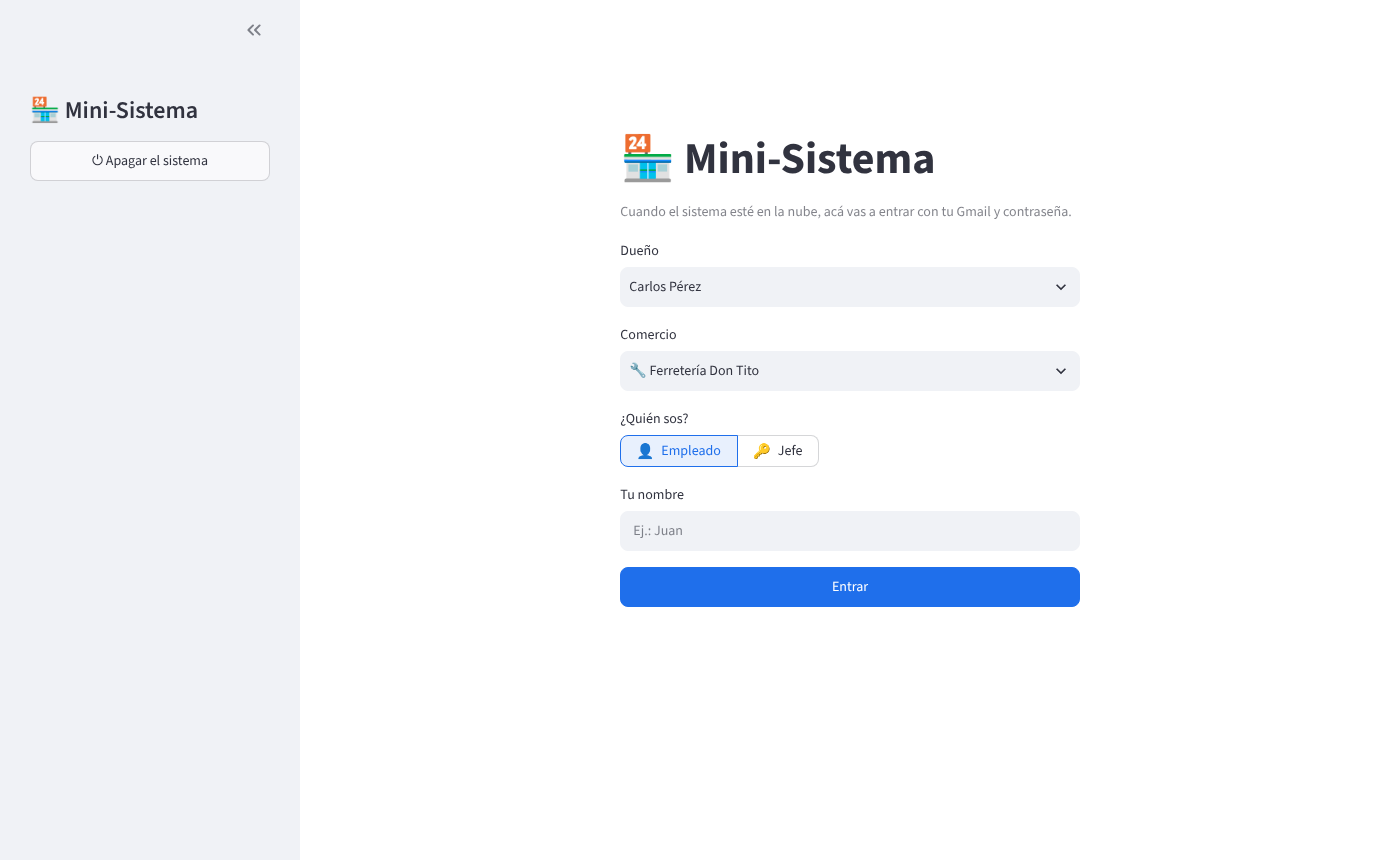
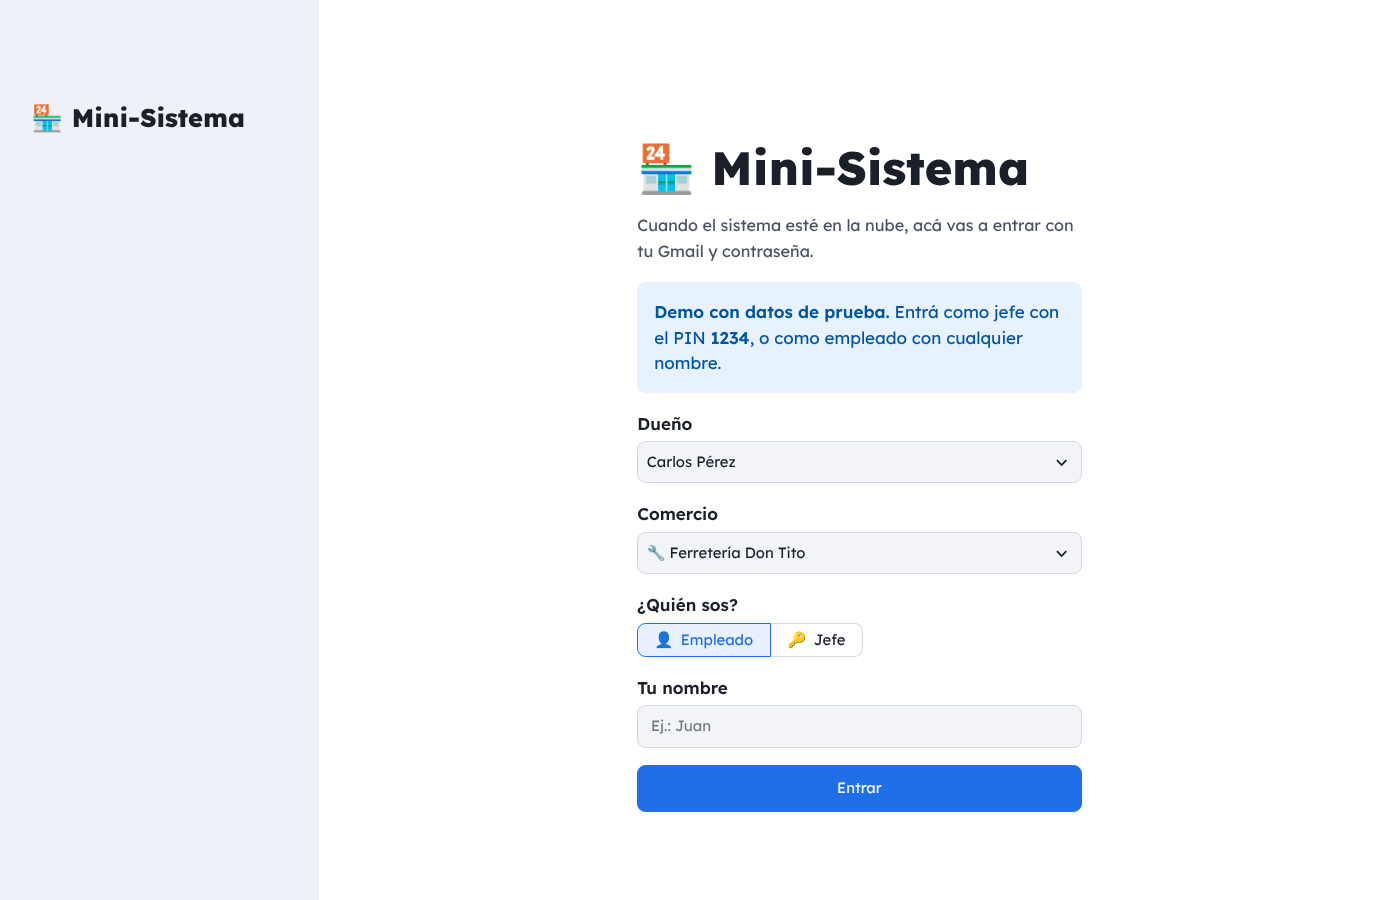
Letra más grande y oscura, Caja más cómoda y detalles visuales
- Tema propio: tipografía Lexend, letra de 17 px, texto casi negro y bordes en los casilleros.
- Etiquetas, textos de ayuda y menú de arriba más grandes y oscuros.
- Se ocultan el cartel "Running" y otros detalles de Streamlit.
- Caja: total y botón Cobrar bien grandes; en el celular cada producto ocupa dos renglones.
- Inicio: si hoy todavía no hay ventas, muestra lo vendido el último día con ventas.
- Plurales correctos ("1 producto", "1 venta", "1 día").
- Capturas del README actualizadas.

Claude-Session: https://claude.ai/code/session_013MiRa8bg68iYCC9FLNK3SH

diff --git a/comun.py b/comun.py
@@ -38,9 +38,66 @@ MESES_TEMPORADA = (12, 1, 2)  # diciembre, enero y febrero
 MES_FIN_TEMPORADA = 3         # en marzo sugiere apagarlo
 
 
+# Retoques visuales de todo el sistema (lo que no se puede cambiar desde .streamlit/config.toml).
+# Pensado para que se lea bien a cualquier edad: letra oscura, etiquetas más grandes y botones cómodos.
+ESTILOS = """<style>
+/* Detalles de Streamlit que no le sirven al comercio: el cartel "Running", la barrita de colores de arriba,
+   el menú de desarrollador y los avisos en inglés dentro de los casilleros ("Press Enter to submit form") */
+[data-testid="stStatusWidget"], [data-testid="stDecoration"], [data-testid="stMainMenu"],
+[data-testid="stAppDeployButton"], [data-testid="InputInstructions"], footer { display: none !important; }
+
+/* Menú de arriba: letra más grande */
+[data-testid="stTopNavLink"] p, [data-testid="stTopNavSection"] p { font-size: 1.05rem; font-weight: 600; }
+
+/* Nombres de los casilleros ("Día", "Producto", "Cantidad"...): más grandes y oscuros */
+[data-testid="stWidgetLabel"] p { font-size: 1rem !important; font-weight: 600; color: #1B1F2A; }
+
+/* Textos chicos de ayuda: un poco más grandes y menos grises */
+[data-testid="stCaptionContainer"] { opacity: 1 !important; }
+[data-testid="stCaptionContainer"], [data-testid="stCaptionContainer"] p { font-size: 0.95rem; color: #4A5162 !important; }
+
+/* Números grandes (vendido hoy, total...): el título arriba, legible */
+[data-testid="stMetricLabel"] p { font-size: 1rem; font-weight: 600; color: #3D4352; }
+[data-testid="stMetricValue"] { font-weight: 700; }
+
+/* Botones más cómodos de tocar */
+.stButton button, .stFormSubmitButton button, .stDownloadButton button, .stLinkButton a {
+    min-height: 2.75rem; font-weight: 600;
+}
+
+/* Caja: el total y el botón Cobrar bien grandes, que es lo que se mira y se toca con apuro */
+.st-key-total_a_cobrar [data-testid="stMetricValue"] { font-size: 3.4rem; font-weight: 800; color: #1B1F2A; }
+.st-key-boton_cobrar button { min-height: 3.6rem; }
+.st-key-boton_cobrar button p { font-size: 1.4rem; font-weight: 800; }
+
+/* En el celular: menos espacio en blanco arriba, y cada producto de la venta en dos renglones
+   (el nombre arriba; cantidad, precio y la X abajo) en vez de cuatro */
+@media (max-width: 640px) {
+    [data-testid="stMainBlockContainer"] { padding-top: 3.5rem; }
+    h1 { font-size: 2.1rem !important; }
+    [class*="st-key-fila_venta"] [data-testid="stHorizontalBlock"] { flex-wrap: wrap; gap: 0.25rem 0.75rem; }
+    [class*="st-key-fila_venta"] [data-testid="stColumn"] { min-width: 0 !important; width: auto !important; flex: 1 1 0; }
+    [class*="st-key-fila_venta"] [data-testid="stColumn"]:first-child { flex: 1 1 100%; }
+    [class*="st-key-fila_venta"] [data-testid="stColumn"]:last-child { flex: 0 0 auto; }
+    [class*="st-key-fila_venta"] p { white-space: nowrap; }
+}
+</style>"""
+
+
+def aplicar_estilos():
+    """Pone los retoques visuales (ESTILOS) en la página. Se llama una vez desde app.py."""
+    st.html(ESTILOS)
+
+
+def plural(cantidad, singular, plural_):
+    """plural(1, "venta", "ventas") -> '1 venta'; plural(3, "venta", "ventas") -> '3 ventas'"""
+    return f"{cantidad} {singular if cantidad == 1 else plural_}"
+
+
 def pesos(valor):
     """1234567.8 -> '$ 1.234.568'"""
-    return f"$ {valor:,.0f}".replace(",", ".")
+    # Con espacio "que no se corta" (\u00a0): así el $ nunca queda solo al final de un renglón
+    return f"$\u00a0{valor:,.0f}".replace(",", ".")
 
 
 def a_python(fila):

diff --git a/paginas/caja.py b/paginas/caja.py
@@ -11,7 +11,7 @@ import streamlit as st
 
 import operaciones as op
 from comun import (MEDIOS_DE_PAGO, alta_rapida, buscar_por_codigo, comercio_actual, dejar_listo_el_lector,
-                   encabezado, es_jefe, pesos)
+                   encabezado, es_jefe, pesos, plural)
 
 
 def pesos_md(valor):
@@ -20,7 +20,7 @@ def pesos_md(valor):
 
 
 def ventas_texto(cantidad):
-    return f"{cantidad} venta" if cantidad == 1 else f"{cantidad} ventas"
+    return plural(cantidad, "venta", "ventas")
 
 from ticket import generar_ticket_pdf
 
@@ -253,11 +253,12 @@ with izquierda:
     if not carrito:
         st.info("Agregá productos para empezar la venta.")
     for indice, item in enumerate(carrito):
-        f1, f2, f3, f4 = st.columns([5, 2, 2, 1], vertical_alignment="center")
+        # La "key" deja que en el celular la fila no se parta en cuatro renglones (ver ESTILOS en comun.py)
+        f1, f2, f3, f4 = st.container(key=f"fila_venta_{indice}").columns([4, 3, 2, 1], vertical_alignment="center")
         f1.write(item["nombre"])
         f2.write(f"{item['cantidad']} x {pesos(item['precio_unitario'])}")
         f3.write(f"**{pesos(item['cantidad'] * item['precio_unitario'])}**")
-        if f4.button("✕", key=f"quitar_{indice}", help="Quitar de la venta"):
+        if f4.button("", icon=":material/close:", key=f"quitar_{indice}", help="Quitar de la venta"):
             carrito.pop(indice)
             st.rerun()
 
@@ -265,7 +266,7 @@ with izquierda:
 with derecha:
     total = sum(i["cantidad"] * i["precio_unitario"] for i in carrito)
     with st.container(border=True):
-        st.metric("Total a cobrar", pesos(total))
+        st.container(key="total_a_cobrar").metric("Total a cobrar", pesos(total))
         medio_pago = st.radio(
             "Medio de pago", list(MEDIOS_DE_PAGO), format_func=MEDIOS_DE_PAGO.get, horizontal=True
         )
@@ -273,9 +274,10 @@ with derecha:
         if comercio["usa_ticket"]:
             con_ticket = st.checkbox("El cliente pide ticket")
 
-        c1, c2 = st.columns(2)
-        cobrar = c1.button("Cobrar", type="primary", disabled=not carrito)
-        if c2.button("Cancelar venta", disabled=not carrito):
+        # Cobrar ocupa todo el ancho y es bien grande; Cancelar queda abajo, más chico, para no tocarlo sin querer
+        cobrar = st.container(key="boton_cobrar").button("💵 Cobrar", type="primary", disabled=not carrito,
+                                                          width="stretch")
+        if st.button("Cancelar venta", disabled=not carrito):
             carrito.clear()
             st.rerun()
 

diff --git a/reportes.py b/reportes.py
@@ -522,7 +522,7 @@ def generar_reporte(comercios, periodo, nombre_alcance=None):
     ]
     if p.tipo != "mes" or p.en_curso:
         notas.append("Los gastos del mes (alquiler, luz, sueldos...) se reparten por día: "
-                     f"a este período le tocan {p.dias} días. El detalle está en la hoja Gastos.")
+                     f"a este período le tocan {p.dias} {'día' if p.dias == 1 else 'días'}. El detalle está en la hoja Gastos.")
     if p.en_curso:
         notas.append(f"Este período todavía no terminó: se compara con los mismos días de antes ({p.nombre_anterior}).")
     for nota in notas:
@@ -547,7 +547,7 @@ def generar_reporte(comercios, periodo, nombre_alcance=None):
         fin_comprar = fila + 1
     else:
         hoja.cell(row=fila + 1, column=1,
-                  value=f"{len(comprar)} productos para reponer · costo estimado {_pesos_texto(comprar['costo_estimado'].sum())}"
+                  value=f"{len(comprar)} {'producto' if len(comprar) == 1 else 'productos'} para reponer · costo estimado {_pesos_texto(comprar['costo_estimado'].sum())}"
                   ).font = Font(bold=True, color="9A6700")
         urgentes = comprar.sort_values(["urgencia", "nombre"]).head(10)
         fin_comprar = _tabla(hoja, urgentes, fila + 2, 1, [
@@ -644,8 +644,11 @@ def generar_reporte(comercios, periodo, nombre_alcance=None):
     col_unidades = [c[0] for c in columnas].index("unidades") + 1
     col_nombre = [c[0] for c in columnas].index("nombre") + 1
     sin_ventas = int((ranking["unidades"] == 0).sum())
-    hoja["A3"] = (f"⚠ {sin_ventas} productos no se vendieron nada en este período." if sin_ventas
-                  else "Todos los productos se vendieron al menos una vez en este período.")
+    if sin_ventas == 1:
+        hoja["A3"] = "⚠ 1 producto no se vendió nada en este período."
+    else:
+        hoja["A3"] = (f"⚠ {sin_ventas} productos no se vendieron nada en este período." if sin_ventas
+                      else "Todos los productos se vendieron al menos una vez en este período.")
     hoja["A3"].font = Font(size=10, italic=True, color="9A6700" if sin_ventas else "1A7F37")
     if len(ranking):
         n = min(10, len(ranking))

diff --git a/paginas/inicio.py b/paginas/inicio.py
@@ -5,7 +5,7 @@ from datetime import date
 import streamlit as st
 
 import operaciones as op
-from comun import RUBROS, aviso_temporada, pesos
+from comun import RUBROS, aviso_temporada, pesos, plural
 
 dueno = st.session_state["dueno"]
 st.title(f"Hola, {dueno['nombre'].split()[0]} 👋")
@@ -49,10 +49,21 @@ for i, c in enumerate(comercios.itertuples()):
     with columnas[i % len(columnas)].container(border=True):
         st.markdown(f"### {c.nombre}")
         st.caption(f"{RUBROS.get(c.rubro, c.rubro)} · {c.direccion or ''}")
-        st.metric("Vendido hoy", pesos(del_dia["total"]))
-        st.caption(f"{del_dia['cantidad']} ventas hoy · {pesos(del_mes['total'])} en el mes")
+        if del_dia["cantidad"]:
+            st.metric("Vendido hoy", pesos(del_dia["total"]))
+            st.caption(f"{plural(del_dia['cantidad'], 'venta', 'ventas')} hoy · {pesos(del_mes['total'])} en el mes")
+        else:
+            # A primera hora un "$ 0" no dice nada: mientras hoy no haya ventas, se muestra el último día
+            # con ventas (casi siempre ayer; si ayer estuvo cerrado, el día anterior)
+            ultimo = op.ultimo_dia_con_ventas(c.id, hoy)
+            if ultimo:
+                titulo = "Ayer vendiste" if (hoy - ultimo).days == 1 else f"El {ultimo:%d/%m} vendiste"
+                st.metric(titulo, pesos(op.resumen_periodo(c.id, ultimo, ultimo)["total"]))
+            else:
+                st.metric("Vendido hoy", pesos(0))
+            st.caption(f"Hoy todavía no hay ventas · {pesos(del_mes['total'])} en el mes")
         if stock_bajo:
-            st.warning(f"{stock_bajo} productos con stock bajo")
+            st.warning(f"{plural(stock_bajo, 'producto', 'productos')} con stock bajo")
         caja = op.caja_abierta(c.id)
         st.caption(f"🟢 Caja abierta por {caja['responsable']} desde las {caja['abierta']:%H:%M}" if caja
                    else "🔒 Caja cerrada")

diff --git a/paginas/reportes.py b/paginas/reportes.py
@@ -7,7 +7,7 @@ import streamlit as st
 
 import operaciones as op
 import reportes as rep
-from comun import aviso_temporada, comercio_actual, encabezado, pesos
+from comun import aviso_temporada, comercio_actual, encabezado, pesos, plural
 
 comercio = comercio_actual()
 dueno = st.session_state["dueno"]
@@ -90,7 +90,7 @@ m1.metric("Ganancia bruta", pesos(este["ganancia_bruta"]), cambio("ganancia_brut
           help="Lo vendido menos lo que costó esa mercadería.")
 m2.metric("Gastos del período", pesos(este["gastos"]), cambio("gastos"), delta_color="inverse",
           help="Los gastos del mes (alquiler, luz, sueldos...) repartidos por día: "
-               f"a este período le tocan {periodo.dias} días.")
+               f"a este período le tocan {plural(periodo.dias, 'día', 'días')}.")
 m3.metric("Ganancia neta", pesos(este["ganancia_neta"]), cambio("ganancia_neta"),
           help="Ganancia bruta menos gastos. Si es negativa, es pérdida.")
 verbo = "viene" if periodo.en_curso else "cerró"
@@ -137,7 +137,7 @@ comprar = rep.que_comprar(datos["productos"], datos["ventas_recientes"])
 if comprar.empty:
     st.success("No hay nada urgente para comprar.")
 else:
-    st.warning(f"**{len(comprar)} productos** para reponer · costo estimado "
+    st.warning(f"**{plural(len(comprar), 'producto', 'productos')}** para reponer · costo estimado "
                f"**{pesos(comprar['costo_estimado'].sum())}**")
     columnas_comprar = {
         "proveedor": "Proveedor", "nombre": "Producto", "estado": "Estado",

diff --git a/paginas/importar_excel.py b/paginas/importar_excel.py
@@ -12,7 +12,7 @@ import pandas as pd
 import streamlit as st
 
 import operaciones as op
-from comun import comercio_actual, encabezado
+from comun import comercio_actual, encabezado, plural
 
 OBLIGATORIAS = ["codigo", "nombre", "precio_costo", "precio_venta", "stock"]
 OPCIONALES = ["categoria", "stock_minimo", "codigo_barras"]
@@ -114,10 +114,10 @@ if archivo:
 
     st.dataframe(validos, hide_index=True)
     if not con_error.empty:
-        st.warning(f"{len(con_error)} filas tienen datos vacíos, números mal escritos o un código de barras "
+        st.warning(f"{plural(len(con_error), 'fila tiene', 'filas tienen')} datos vacíos, números mal escritos o un código de barras "
                    "repetido (o que ya es de otro producto), y no se van a importar:")
         st.dataframe(con_error, hide_index=True)
 
-    if st.button(f"Importar {len(validos)} productos", type="primary", disabled=validos.empty):
+    if st.button(f"Importar {plural(len(validos), 'producto', 'productos')}", type="primary", disabled=validos.empty):
         nuevos, actualizados = op.importar_productos(comercio["id"], validos)
-        st.success(f"Listo: {nuevos} productos nuevos y {actualizados} actualizados.")
+        st.success(f"Listo: {plural(nuevos, 'producto nuevo', 'productos nuevos')} y {plural(actualizados, 'actualizado', 'actualizados')}.")

diff --git a/app.py b/app.py
@@ -15,7 +15,7 @@ import streamlit as st
 import operaciones as op
 import reportes
 from ingreso import pantalla_ingreso
-from comun import RUBROS, a_python, correr_script, permisos_de
+from comun import RUBROS, a_python, aplicar_estilos, correr_script, permisos_de
 from config import FORMULARIO_RESENAS, MODO_DEMO, PIN_DEMO, PUEDE_APAGARSE, RUTA_BASE
 
 st.set_page_config(page_title="Mini-Sistema", page_icon="🏪", layout="wide")
@@ -53,8 +53,8 @@ correr_script("""
     }
 """)
 
-# Oculta los avisos en inglés que Streamlit pone dentro de los casilleros ("Press Enter to submit form")
-st.html("<style>[data-testid='InputInstructions'] { display: none; }</style>")
+# Letra más grande y oscura, botones cómodos y sin los detalles de Streamlit (ver ESTILOS en comun.py)
+aplicar_estilos()
 
 
 @st.cache_resource(show_spinner=False)

diff --git a/operaciones.py b/operaciones.py
@@ -477,6 +477,17 @@ def resumen_periodo(comercio_id, desde, hasta):
         return dict(con.execute(consulta).mappings().one())
 
 
+def ultimo_dia_con_ventas(comercio_id, antes_de):
+    """El último día (anterior a antes_de) en que el comercio vendió algo, o None si nunca vendió."""
+    consulta = select(func.max(func.date(bd.ventas.c.fecha))).where(
+        bd.ventas.c.comercio_id == comercio_id,
+        func.date(bd.ventas.c.fecha) < antes_de.isoformat(),
+    )
+    with motor.connect() as con:
+        dia = con.execute(consulta).scalar()
+    return date.fromisoformat(str(dia)[:10]) if dia else None
+
+
 def primer_dia_del_mes(dia=None):
     dia = dia or date.today()
     return dia.replace(day=1)
